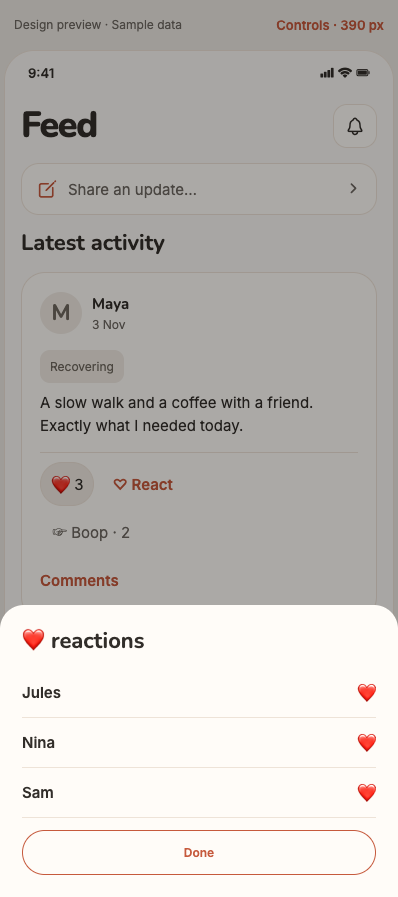
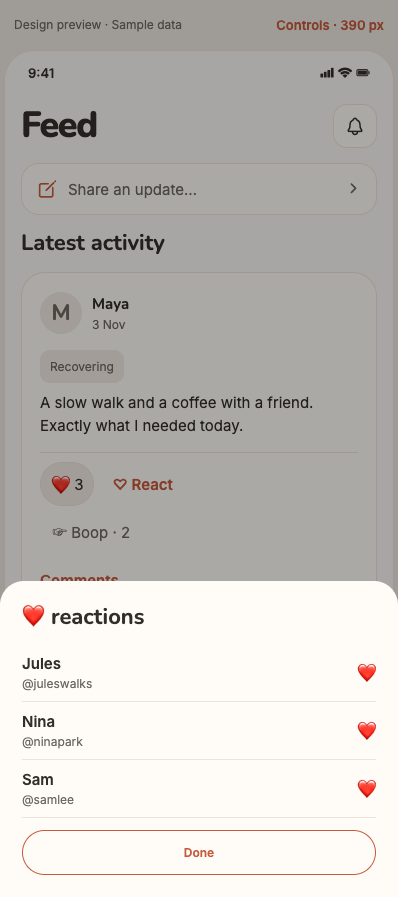
Prepare internal TestFlight 1.0.24 (46) and record staging verification

Changed region(s): [[0.0, 0.6243, 1.0, 0.9052], [0.8744, 0.7179, 0.9648, 0.9052]]

diff --git a/app.config.ts b/app.config.ts
@@ -39,7 +39,7 @@ const healthUpdateDescription = `${APP_NAME} does not write any data back to App
 const config: ExpoConfig = {
   name: APP_NAME,
   slug: SLUG,
-  version: '1.0.23',
+  version: '1.0.24',
   icon: './app/components/brand/assets/app-icon.png',
   orientation: 'portrait',
   userInterfaceStyle: 'light',

diff --git a/docs/TESTING.md b/docs/TESTING.md
@@ -292,7 +292,9 @@ The preview passed adding, reading and removing comments on a phase update, sing
 
 At phone width, the browser preview passed holding a heart, a Boop and React, opening the member profile, tapping to send once, opening an empty automatic update, and canceling, erasing and reconnecting in Settings. [Reaction list](../design/2026-11-13/cycle-privacy-and-reactions/who-reacted.png) · [Erasure confirmation](../design/2026-11-13/cycle-privacy-and-reactions/confirm-cycle-erasure.png).
 
-Two disposable staging accounts verified that Settings’ Delete account endpoint removed the cycle snapshot, automatic event and access from the accepted friend. For the separate cycle erasure, test a saved snapshot, event and event notification, written post and friendship. After withdrawal, check the account and friend still see the written post, the shared cycle is gone, and an old client cannot upload another snapshot. Reconnect and confirm a deliberate import succeeds. Hold a heart or Boop on the same written or automatic update from both accounts. Verify names, a single tap's original behavior, and denied access for an unrelated account.
+The Delete account endpoint removed a synthetic account’s saved cycle snapshot, automatic event and its accepted friend’s access. A separate run used three disposable accounts on the staging backend with signed-in sessions. The owner and accepted friend saw the correct member names and filtered reactions and boops on both post types. An unrelated account saw neither list and could not erase someone else’s data.
+
+Erasing twice was safe. The saved history, automatic updates and their comments/reactions/boops, inbox notices (including an older detached notice), guidance requests, saved guidance and both directions of paired recommendations were gone. The friendship, authored post and its interactions, and the friend’s own history were still present. Old upload requests and background guidance writes were denied. Reconnecting allowed a fresh import that was visible to the friend. All fixture accounts were removed. The 208 app tests, both type checks, iOS bundle export and pull request database checks passed. Native long-press accessibility, Apple Health permissions and re-import on a physical iPhone remain to be checked.
 
 ## Owner large-text feedback - 2026-11-13
 

diff --git a/docs/SCHEMA.md b/docs/SCHEMA.md
@@ -112,3 +112,5 @@ Migration `20261113120100` was applied on staging and production by [Database de
 
 - `private.cycle_sync_withdrawals` holds the owner ID only. The signed-in owner can read their status with `cycle_sync_enabled()` and atomically withdraw or resume through `set_cycle_sync_enabled(expected_user_id,enabled)`. Trigger checks on snapshots, events, guidance and pair recommendations serialize new writes with withdrawal. Deleting a cycle event clears its linked notifications and boops before their nullable foreign keys are cleared.
 - `update_engagement_members` runs with caller permissions, checks the written or automatic parent, groups visible interactions by member, and returns up to 40 people per page. Names follow the outward-profile visibility rules.
+
+The [database deployment](https://github.com/kratijain2631/period-app/actions/runs/43480982106) tracks these two migrations. The [staging account checks](TESTING.md#explicit-erasure-and-engagement) cover the owner, an accepted friend and an unrelated account.

diff --git a/docs/RELEASE_NOTES.md b/docs/RELEASE_NOTES.md
@@ -6,6 +6,10 @@ Changelog for this app's builds. Newest first. See [INSTRUCTIONS.md](INSTRUCTION
 
 ## Unreleased
 
+## 2026-11-13 — TestFlight build 1.0.24 (build 46)
+
+The features passed [staging tests with disposable accounts](TESTING.md#explicit-erasure-and-engagement), phone-width gesture checks and 208 app tests. [Database deployment](https://github.com/kratijain2631/period-app/actions/runs/43480982106).
+
 **Cycle privacy**
 
 - You → Settings → Privacy and permissions → Erase synced cycle data clears the saved cycle summary, automatic updates, their interactions and notifications, guidance and paired recommendations. Confirmation turns off cycle sync for the account across devices. Friends, written posts and the original Apple Health records are kept. Reconnect and share explicitly enables importing again.
